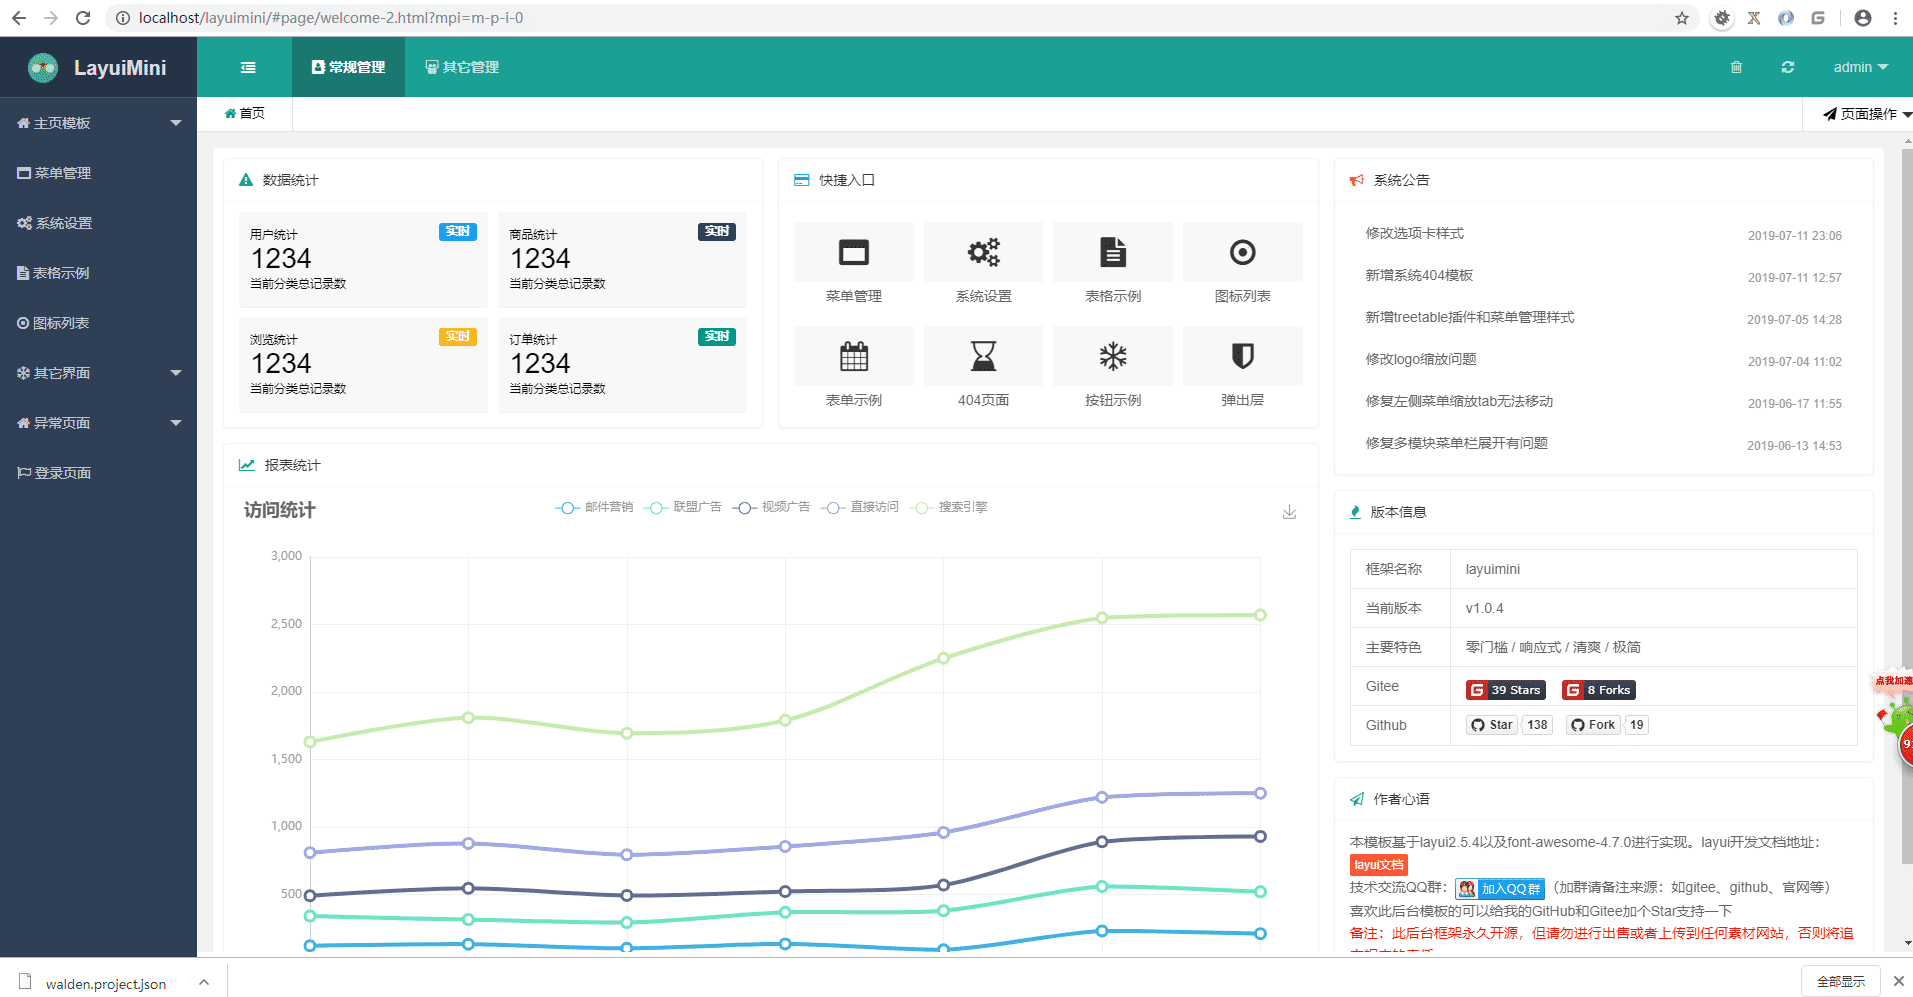
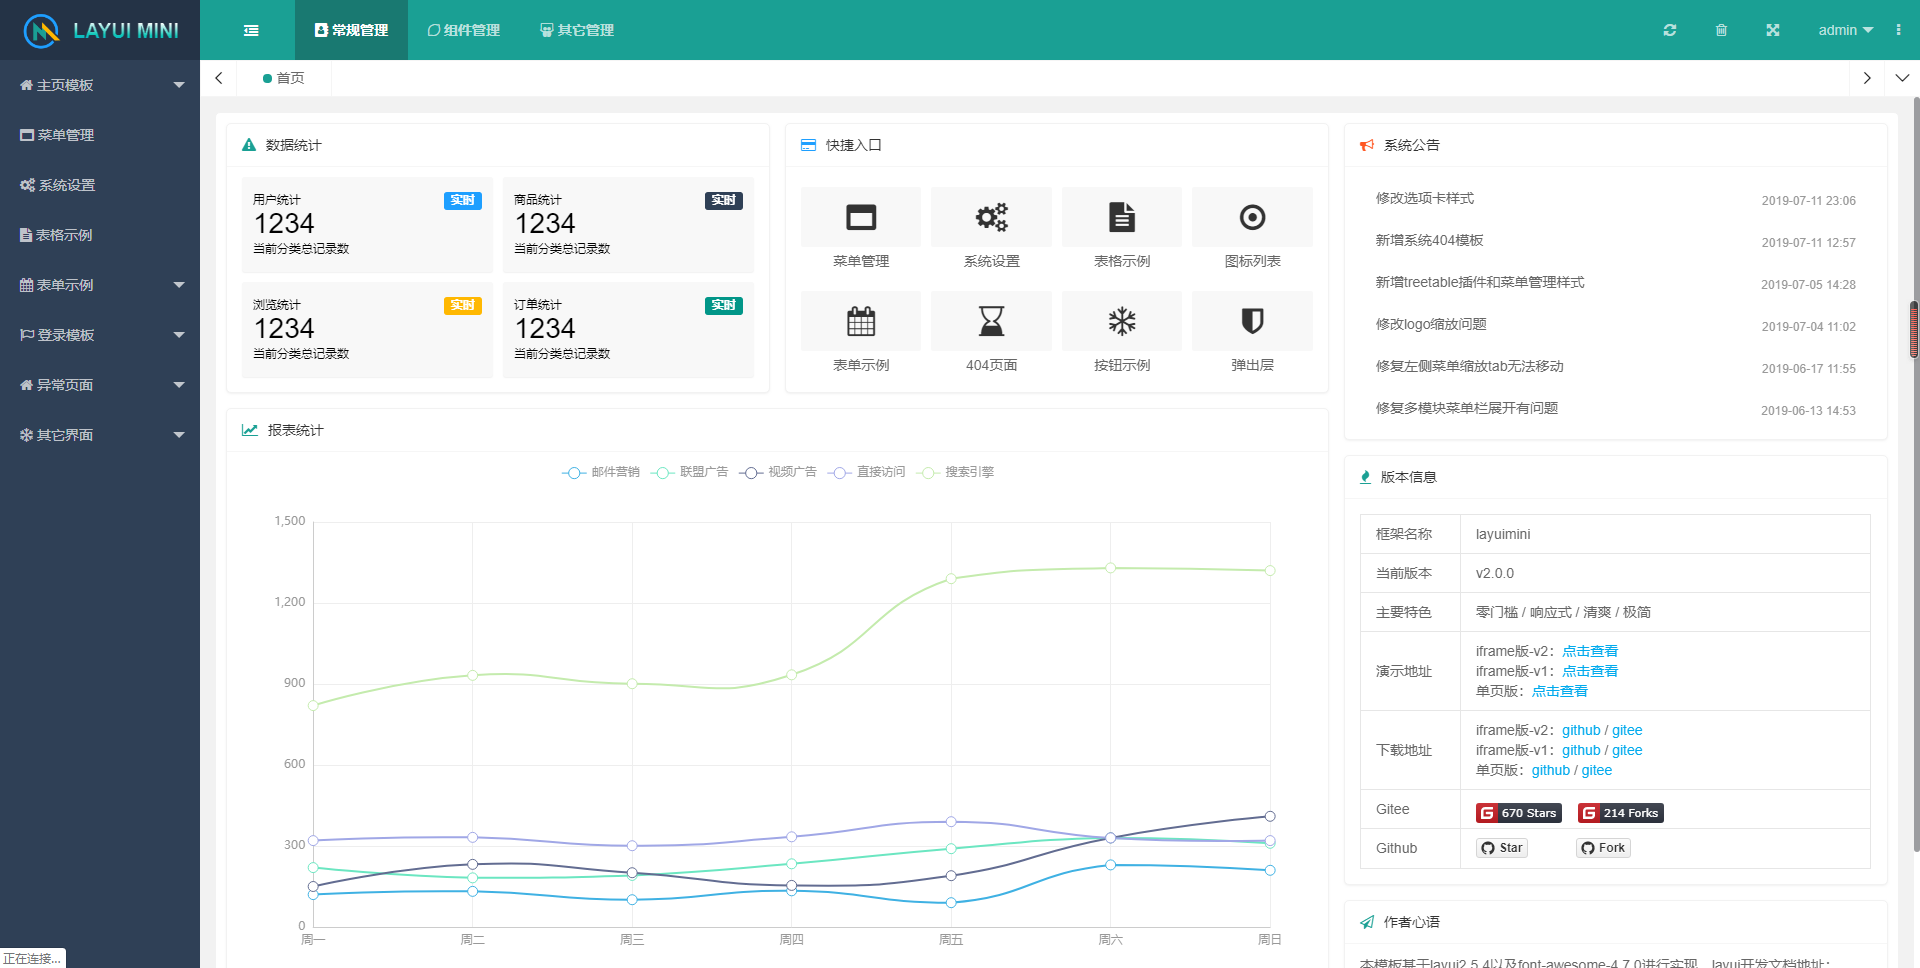
修改描述

diff --git a/page/welcome-1.html b/page/welcome-1.html
@@ -287,7 +287,7 @@
                             </tr>
                             <tr>
                                 <td>当前版本</td>
-                                <td>v1.0.4</td>
+                                <td>v2.0.0</td>
                             </tr>
                             <tr>
                                 <td>主要特色</td>
@@ -296,14 +296,16 @@
                             <tr>
                                 <td>演示地址</td>
                                 <td>
-                                    iframe版：<a href="http://layuimini.99php.cn/" target="_blank">点击查看</a><br>
+                                    iframe版-v2：<a href="http://layuimini.99php.cn/iframe/v2" target="_blank">点击查看</a><br>
+                                    iframe版-v1：<a href="http://layuimini.99php.cn/" target="_blank">点击查看</a><br>
                                     单页版：<a href="http://layuimini-onepage.99php.cn" target="_blank">点击查看</a>
                                 </td>
                             </tr>
                             <tr>
                                 <td>下载地址</td>
                                 <td>
-                                    iframe版：<a href="https://github.com/zhongshaofa/layuimini" target="_blank">github</a> / <a href="https://gitee.com/zhongshaofa/layuimini" target="_blank">gitee</a><br>
+                                    iframe版-v2：<a href="https://github.com/zhongshaofa/layuimini/tree/v2" target="_blank">github</a> / <a href="https://gitee.com/zhongshaofa/layuimini/tree/v2" target="_blank">gitee</a><br>
+                                    iframe版-v1：<a href="https://github.com/zhongshaofa/layuimini/tree/master" target="_blank">github</a> / <a href="https://gitee.com/zhongshaofa/layuimini/tree/master" target="_blank">gitee</a><br>
                                     单页版：<a href="https://github.com/zhongshaofa/layuimini/tree/onepage" target="_blank">github</a> / <a href="https://gitee.com/zhongshaofa/layuimini/tree/onepage" target="_blank">gitee</a>
                                 </td>
                             </tr>

diff --git a/index.html b/index.html
@@ -2,7 +2,7 @@
 <html>
 <head>
     <meta charset="utf-8">
-    <title>layuimini - 基于Layui的后台管理系统前端模板</title>
+    <title>layuimini v2 - 基于Layui的后台管理系统前端模板</title>
     <meta name="keywords" content="layuimini,layui,layui模板,layui后台,后台模板,admin,admin模板,layui mini">
     <meta name="description" content="layuimini基于layui的轻量级前端后台管理框架，最简洁、易用的后台框架模板，面向所有层次的前后端程序,只需提供一个接口就直接初始化整个框架，无需复杂操作。">
     <meta name="renderer" content="webkit">

diff --git a/css/public.css b/css/public.css
@@ -48,3 +48,23 @@ body {
     padding: 10px 20px 5px 20px;
     color: #6b6b6b;
 }
+
+/**自定义滚动条样式 */
+::-webkit-scrollbar {
+    width: 6px;
+    height: 6px
+}
+
+::-webkit-scrollbar-track {
+    background-color: transparent;
+    -webkit-border-radius: 2em;
+    -moz-border-radius: 2em;
+    border-radius: 2em;
+}
+
+::-webkit-scrollbar-thumb {
+    background-color: #9c9da0;
+    -webkit-border-radius: 2em;
+    -moz-border-radius: 2em;
+    border-radius: 2em
+}

diff --git a/README.md b/README.md
@@ -7,16 +7,6 @@ layuimini后台模板
 
 技术交流QQ群：[667813249](https://jq.qq.com/?_wv=1027&k=5lyiE2Q)、[561838086🈵](https://jq.qq.com/?_wv=1027&k=5JRGVfe) `加群请备注来源：如gitee、github、官网等`。
 
-## 代码仓库(iframe 多tab版)
- * 在线预览地址：[http://layuimini.99php.cn](http://layuimini.99php.cn)
- * GitHub仓库地址：[https://github.com/zhongshaofa/layuimini](https://github.com/zhongshaofa/layuimini)
- * Gitee仓库地址：[https://gitee.com/zhongshaofa/layuimini](https://gitee.com/zhongshaofa/layuimini)
- 
- ## 代码仓库(onepage 单页版)
-  * 在线预览地址：[http://layuimini-onepage.99php.cn](http://layuimini-onepage.99php.cn)
-  * GitHub仓库地址：[https://github.com/zhongshaofa/layuimini/tree/onepage](https://github.com/zhongshaofa/layuimini/tree/onepage)
-  * Gitee仓库地址：[https://gitee.com/zhongshaofa/layuimini/tree/onepage](https://gitee.com/zhongshaofa/layuimini/tree/onepage)
-
 ## 主要特性
 * 界面足够简洁清爽，响应式且适配手机端。
 * 一个接口`几行代码而已`直接初始化整个框架，无需复杂操作。
@@ -28,6 +18,38 @@ layuimini后台模板
 * 刷新页面会保留当前的窗口，并且会定位当前窗口对应左侧菜单栏。
 * 支持font-awesome图标选择插件
 
+
+## 代码仓库(iframe 多tab版)
+
+##### v2版
+ * 在线预览地址：[http://layuimini.99php.cn/iframe/v2](http://layuimini.99php.cn/iframe/v2)
+ * GitHub仓库地址：[https://github.com/zhongshaofa/layuimini/tree/v2](https://github.com/zhongshaofa/layuimini/tree/v2)
+ * Gitee仓库地址：[https://gitee.com/zhongshaofa/layuimini/tree/v2](https://gitee.com/zhongshaofa/layuimini/tree/v2)
+ ##### v1版
+  * 在线预览地址：[http://layuimini.99php.cn](http://layuimini.99php.cn)
+  * GitHub仓库地址：[https://github.com/zhongshaofa/layuimini/tree/master](https://github.com/zhongshaofa/layuimini/tree/master)
+  * Gitee仓库地址：[https://gitee.com/zhongshaofa/layuimini/tree/master](https://gitee.com/zhongshaofa/layuimini/tree/master)
+ 
+ ## 代码仓库(onepage 单页版)
+ * 在线预览地址：[http://layuimini-onepage.99php.cn](http://layuimini-onepage.99php.cn)
+ * GitHub仓库地址：[https://github.com/zhongshaofa/layuimini/tree/onepage](https://github.com/zhongshaofa/layuimini/tree/onepage)
+ * Gitee仓库地址：[https://gitee.com/zhongshaofa/layuimini/tree/onepage](https://gitee.com/zhongshaofa/layuimini/tree/onepage)
+
+## 下载方式
+
+##### iframe v2版
+ * GitHub下载命令：`git clone https://github.com/zhongshaofa/layuimini -b v2`
+ * Gitee下载命令：`git clone https://gitee.com/zhongshaofa/layuimini -b v2`
+##### iframe v1版
+ * GitHub下载命令：`git clone https://github.com/zhongshaofa/layuimini -b master`
+ * Gitee下载命令：`git clone https://gitee.com/zhongshaofa/layuimini -b master`
+##### 单页版
+ * GitHub下载命令：`git clone https://github.com/zhongshaofa/layuimini -b onepage`
+ * Gitee下载命令：`git clone https://gitee.com/zhongshaofa/layuimini -b onepage`
+##### 发行版地址
+* GitHub发版地址：[https://github.com/zhongshaofa/layuimini/releases](https://github.com/zhongshaofa/layuimini/releases)
+* Gitee发版地址：[https://gitee.com/zhongshaofa/layuimini/releases](https://gitee.com/zhongshaofa/layuimini/releases)
+ 
 ## 效果预览
 > 总体预览
 
